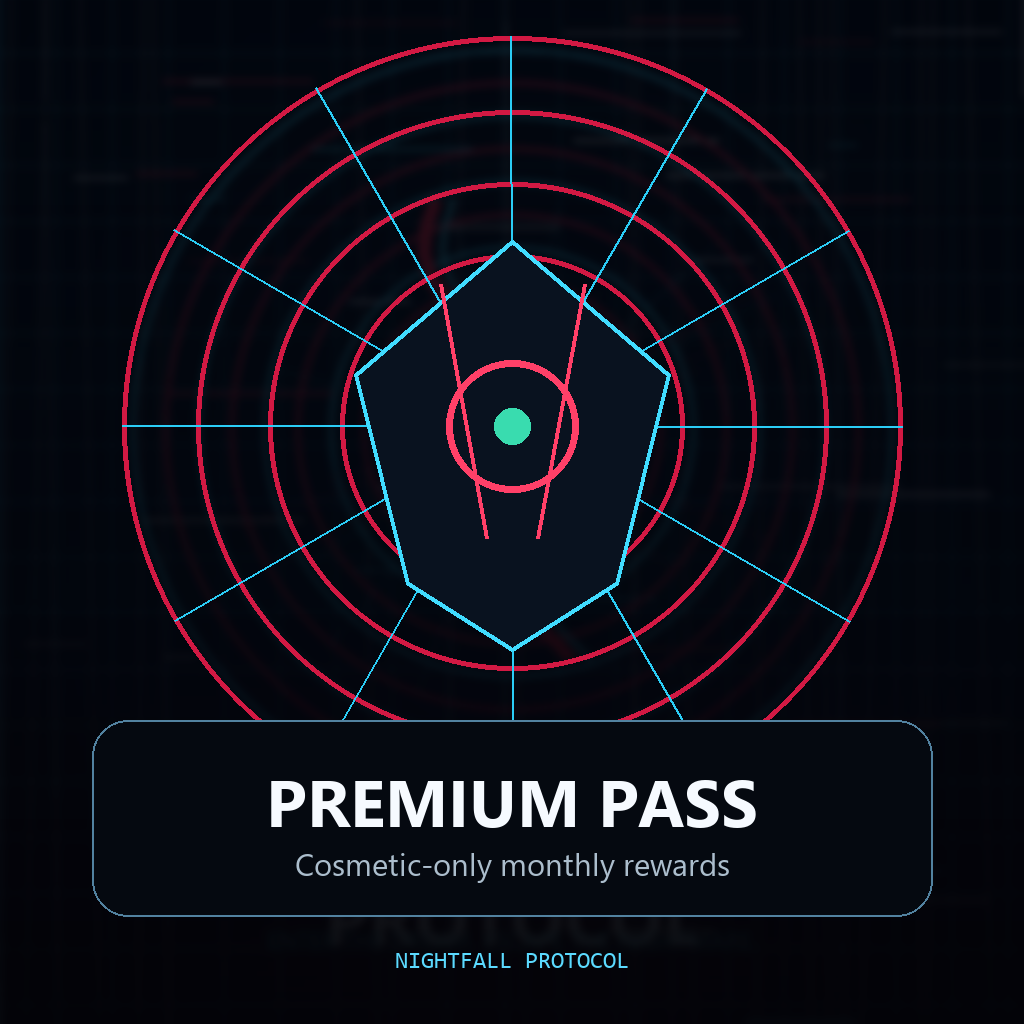
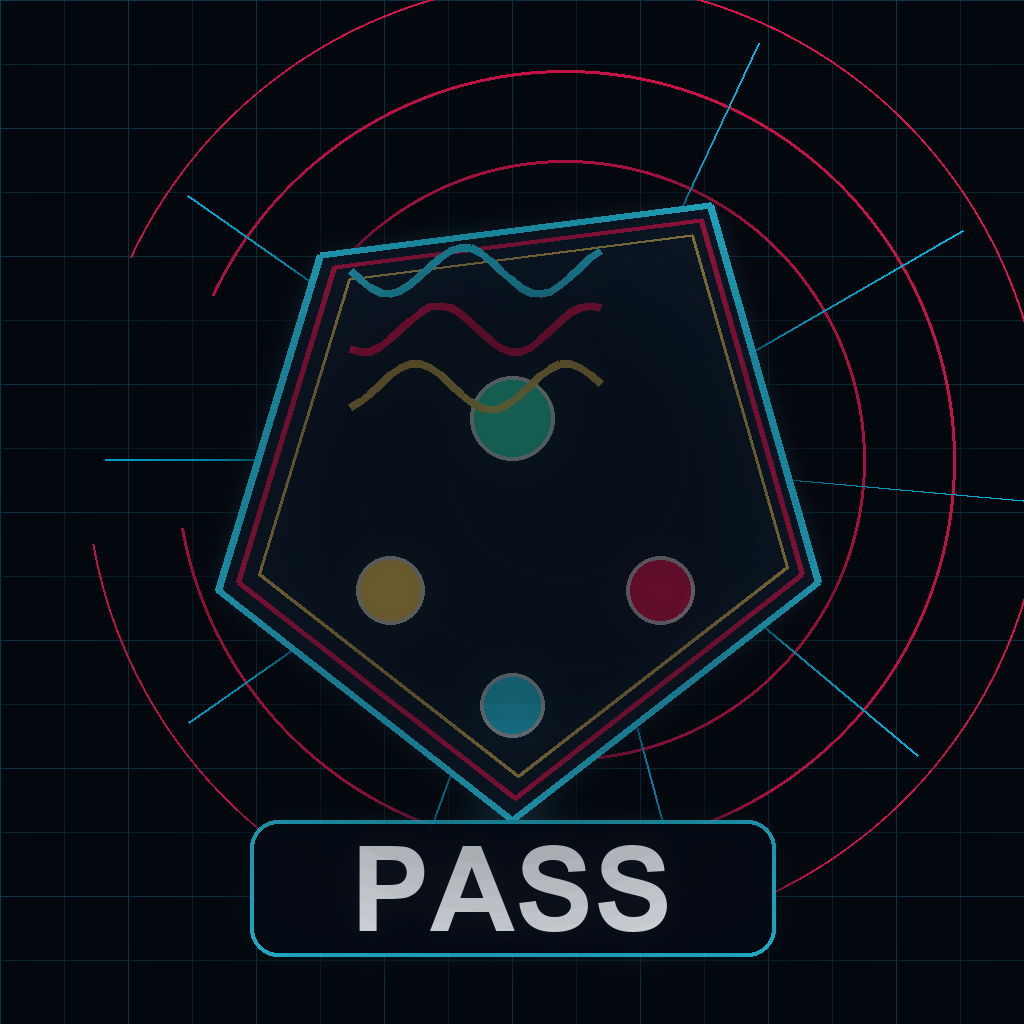
Use real StoreKit purchases on visionOS

diff --git a/NightfallProtocol/StoreKit/StoreService.swift b/NightfallProtocol/StoreKit/StoreService.swift
@@ -31,18 +31,24 @@ final class StoreService {
         do {
             products = try await Product.products(for: productIDs)
             await refreshEntitlements()
+            lastErrorKey = products.isEmpty ? "error.store.unavailable" : nil
         } catch {
+            products = []
             lastErrorKey = "error.store.unavailable"
         }
     }
 
     func catalogItems() -> [StoreCatalogItem] {
-        [
+        guard !products.isEmpty else { return [] }
+
+        let availableProductIDs = Set(products.map(\.id))
+        return [
             StoreCatalogItem(
                 productID: Self.starterPackID,
                 titleKey: "store.starter.title",
                 descriptionKey: "store.starter.description",
                 priceKey: "store.starter.price",
+                displayPrice: displayPrice(for: Self.starterPackID),
                 category: .cosmetic,
                 owned: purchasedProductIDs.contains(Self.starterPackID)
             ),
@@ -51,6 +57,7 @@ final class StoreService {
                 titleKey: "store.premiumPass.title",
                 descriptionKey: "store.premiumPass.description",
                 priceKey: "store.premiumPass.price",
+                displayPrice: displayPrice(for: Self.premiumPassID),
                 category: .pass,
                 owned: purchasedProductIDs.contains(Self.premiumPassID)
             ),
@@ -59,47 +66,44 @@ final class StoreService {
                 titleKey: "store.nightmareSkin.title",
                 descriptionKey: "store.nightmareSkin.description",
                 priceKey: "store.nightmareSkin.price",
+                displayPrice: displayPrice(for: Self.nightmareSkinPackID),
                 category: .cosmetic,
                 owned: purchasedProductIDs.contains(Self.nightmareSkinPackID)
             )
         ]
+        .filter { availableProductIDs.contains($0.productID) }
     }
 
-    func purchase(_ item: StoreCatalogItem, context: ModelContext) async {
-        #if os(visionOS)
-        markPurchased(productID: item.productID, context: context)
-        lastErrorKey = "store.mock.purchase"
-        return
-        #else
-        if let product = products.first(where: { $0.id == item.productID }) {
-            do {
-                let result = try await product.purchase()
+    func purchase(_ item: StoreCatalogItem, context: ModelContext, purchaseAction: PurchaseAction? = nil) async {
+        lastErrorKey = nil
 
-                switch result {
-                case .success(let verification):
-                    let transaction = try checkVerified(verification)
-                    await transaction.finish()
-                    markPurchased(productID: transaction.productID, context: context)
-                case .userCancelled, .pending:
-                    break
-                @unknown default:
-                    lastErrorKey = "error.purchase.failed"
-                }
-            } catch {
-                lastErrorKey = "error.purchase.failed"
-            }
-        } else {
-            markPurchased(productID: item.productID, context: context)
-            lastErrorKey = "store.mock.purchase"
+        guard let product = products.first(where: { $0.id == item.productID }) else {
+            lastErrorKey = "error.store.unavailable"
+            return
         }
-        #endif
+
+        do {
+            let result: Product.PurchaseResult
+            if let purchaseAction {
+                result = try await purchaseAction(product)
+            } else {
+                #if os(visionOS)
+                lastErrorKey = "error.purchase.failed"
+                return
+                #else
+                result = try await product.purchase()
+                #endif
+            }
+
+            await completePurchase(result, context: context)
+        } catch {
+            lastErrorKey = "error.purchase.failed"
+        }
     }
 
     func restorePurchases(context: ModelContext) async {
-        #if os(visionOS)
-        lastErrorKey = "store.mock.purchase"
-        return
-        #else
+        lastErrorKey = nil
+
         do {
             try await AppStore.sync()
             await refreshEntitlements()
@@ -109,7 +113,28 @@ final class StoreService {
         } catch {
             lastErrorKey = "error.purchase.failed"
         }
-        #endif
+    }
+
+    private func completePurchase(_ result: Product.PurchaseResult, context: ModelContext) async {
+        switch result {
+        case .success(let verification):
+            do {
+                let transaction = try checkVerified(verification)
+                await transaction.finish()
+                markPurchased(productID: transaction.productID, context: context)
+                lastErrorKey = nil
+            } catch {
+                lastErrorKey = "error.purchase.failed"
+            }
+        case .userCancelled, .pending:
+            break
+        @unknown default:
+            lastErrorKey = "error.purchase.failed"
+        }
+    }
+
+    private func displayPrice(for productID: String) -> String? {
+        products.first(where: { $0.id == productID })?.displayPrice
     }
 
     private func refreshEntitlements() async {

diff --git a/NightfallProtocol/Components/Components.swift b/NightfallProtocol/Components/Components.swift
@@ -388,11 +388,17 @@ struct StoreItemCard: View {
 
                 Spacer()
 
-                Text(LocalizedStringKey(item.priceKey))
-                    .font(.headline.monospacedDigit())
-                    .foregroundStyle(.yellow)
-                    .lineLimit(1)
-                    .minimumScaleFactor(0.75)
+                Group {
+                    if let displayPrice = item.displayPrice {
+                        Text(displayPrice)
+                    } else {
+                        Text(LocalizedStringKey(item.priceKey))
+                    }
+                }
+                .font(.headline.monospacedDigit())
+                .foregroundStyle(.yellow)
+                .lineLimit(1)
+                .minimumScaleFactor(0.75)
             }
 
             Text(LocalizedStringKey(item.descriptionKey))

diff --git a/NightfallProtocol/Views/StoreSettingsViews.swift b/NightfallProtocol/Views/StoreSettingsViews.swift
@@ -1,8 +1,10 @@
 import SwiftData
 import SwiftUI
+import StoreKit
 
 struct StoreView: View {
     @Environment(\.modelContext) private var modelContext
+    @Environment(\.purchase) private var purchase
     @Environment(AppServices.self) private var services
     @State private var viewModel = StoreViewModel()
 
@@ -30,7 +32,12 @@ struct StoreView: View {
                     ForEach(viewModel.items) { item in
                         StoreItemCard(item: item) {
                             Task {
-                                await viewModel.purchase(item, store: services.store, context: modelContext)
+                                await viewModel.purchase(
+                                    item,
+                                    store: services.store,
+                                    context: modelContext,
+                                    purchaseAction: purchase
+                                )
                             }
                         }
                     }

diff --git a/NightfallProtocol/ViewModels/FeatureViewModels.swift b/NightfallProtocol/ViewModels/FeatureViewModels.swift
@@ -1,6 +1,7 @@
 import Foundation
 import Observation
 import SwiftData
+import StoreKit
 
 @MainActor
 @Observable
@@ -34,8 +35,8 @@ final class StoreViewModel {
         isLoading = false
     }
 
-    func purchase(_ item: StoreCatalogItem, store: StoreService, context: ModelContext) async {
-        await store.purchase(item, context: context)
+    func purchase(_ item: StoreCatalogItem, store: StoreService, context: ModelContext, purchaseAction: PurchaseAction) async {
+        await store.purchase(item, context: context, purchaseAction: purchaseAction)
         items = store.catalogItems()
         messageKey = store.lastErrorKey
     }

diff --git a/NightfallProtocol/Models/GameModels.swift b/NightfallProtocol/Models/GameModels.swift
@@ -357,6 +357,7 @@ struct StoreCatalogItem: Identifiable, Hashable {
     var titleKey: String
     var descriptionKey: String
     var priceKey: String
+    var displayPrice: String?
     var category: StoreCategory
     var owned: Bool
 }